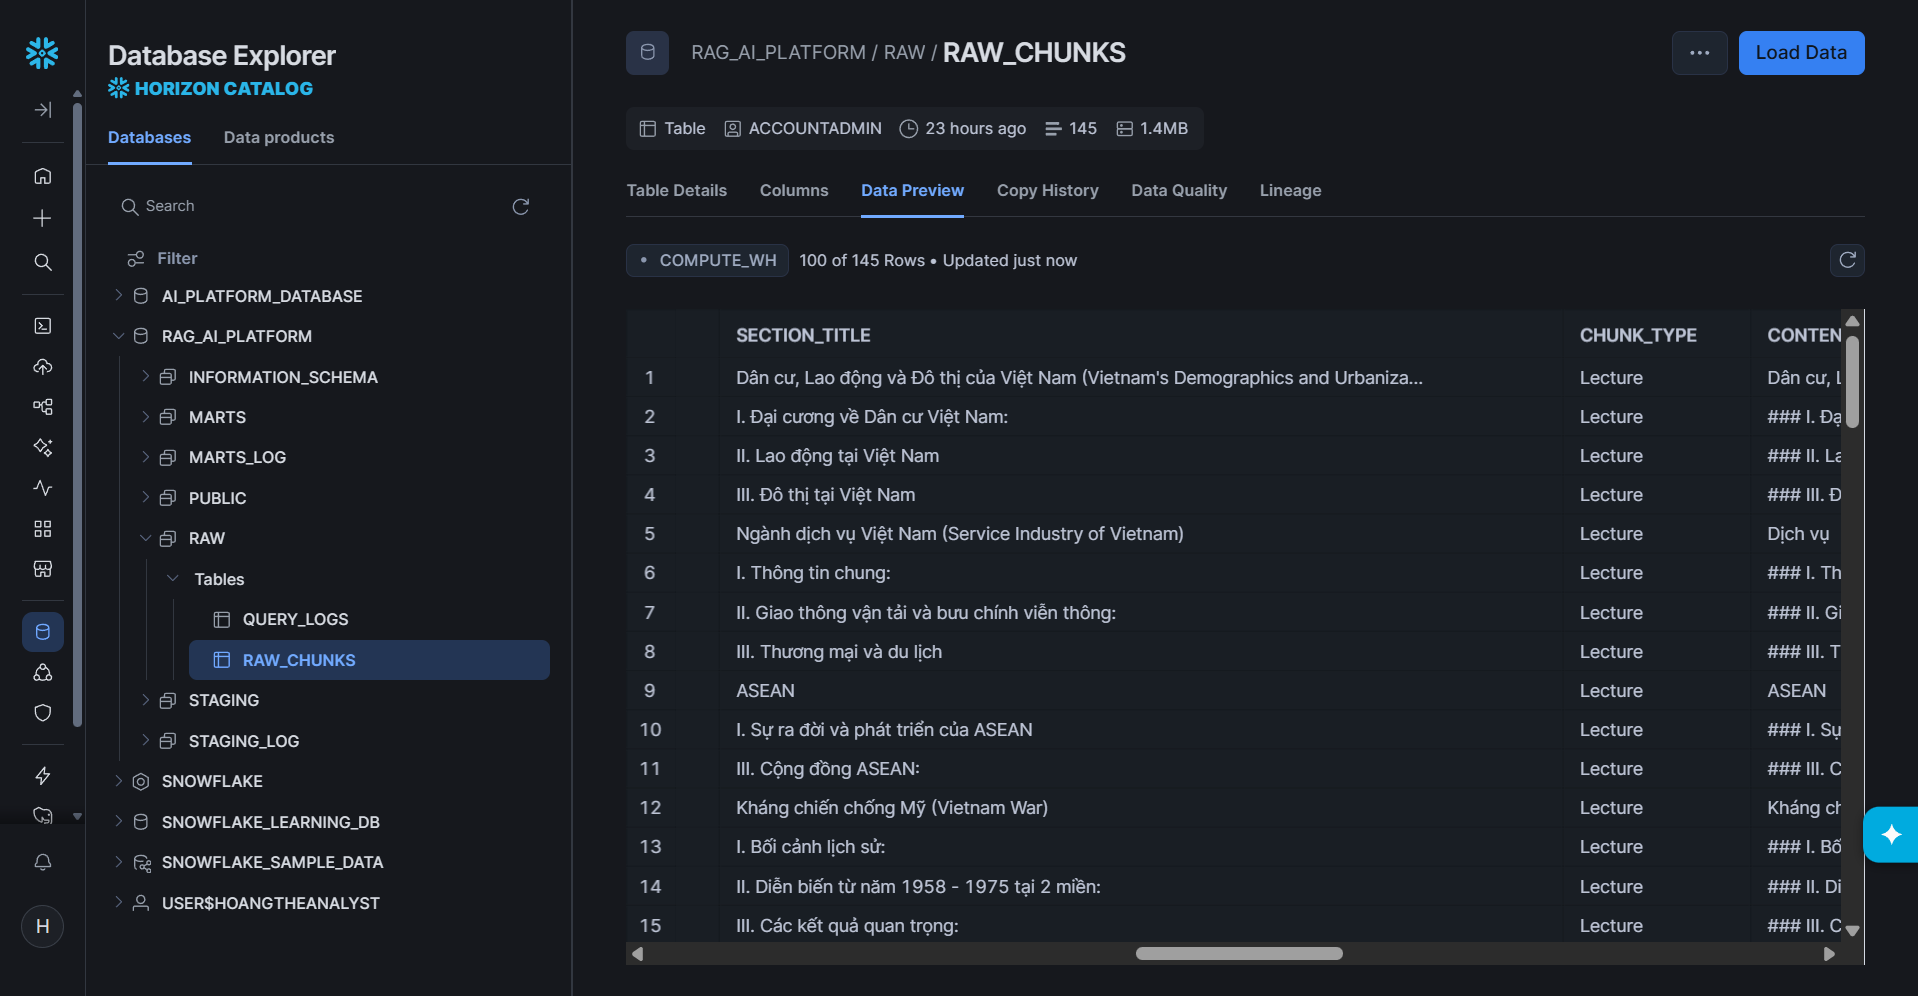
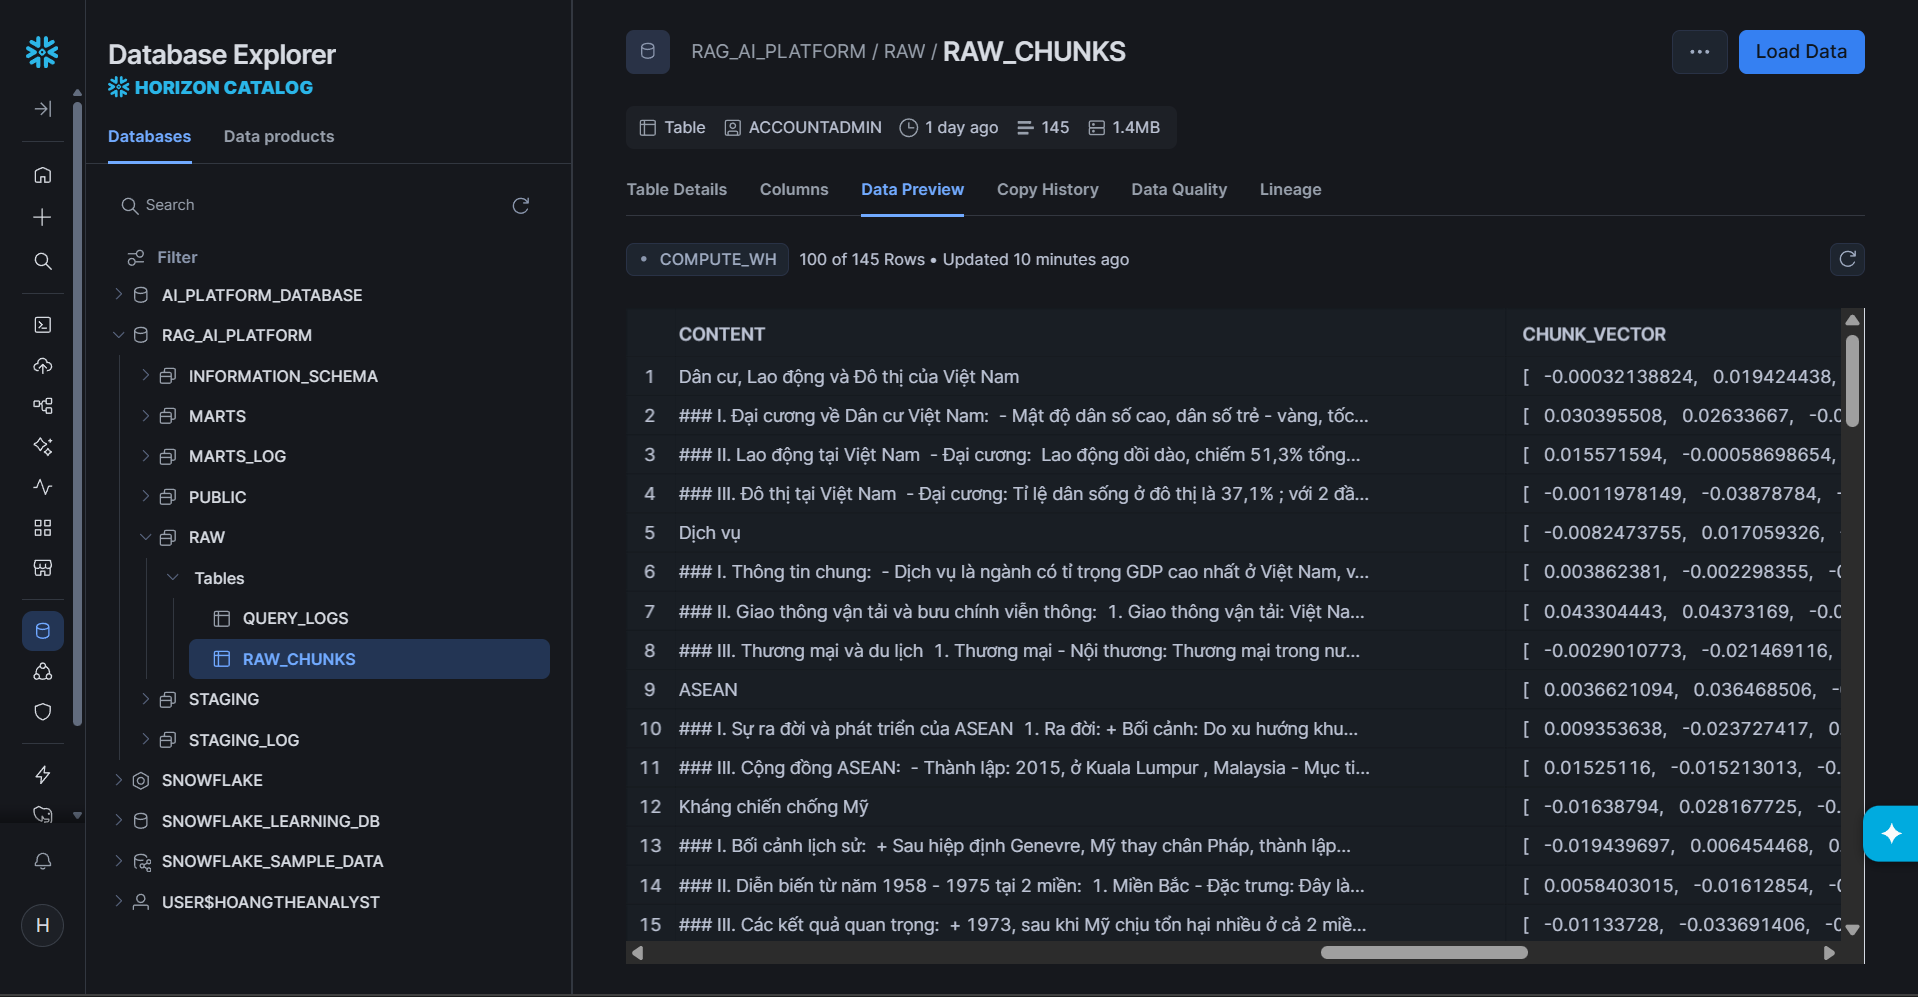
Adjust README.md & pictures

diff --git a/README.md b/README.md
@@ -1,8 +1,8 @@
-# 🎓 Enterprise RAG AI Platform & Telemetry Data Warehouse
+# 🎓Project 10: Create a RAG AI Platform For Edtech Company
 
 An end-to-end Retrieval-Augmented Generation (RAG) ecosystem and analytics engineering platform built on **Snowflake**, **dbt**, **FastAPI**, and **Next.js 14**. The system automates educational curriculum ingestion, native vector cosine retrieval, and telemetry observability marts.
 
-[Deployment Platform](https://ai-rag-platform-three.vercel.app/dashboard)
+[Live Demo](https://ai-rag-platform-three.vercel.app/dashboard)
 (Please wait 10 - 50 seconds for the backend to warm up on Vercel free-tier hosting.)
 ---
 
